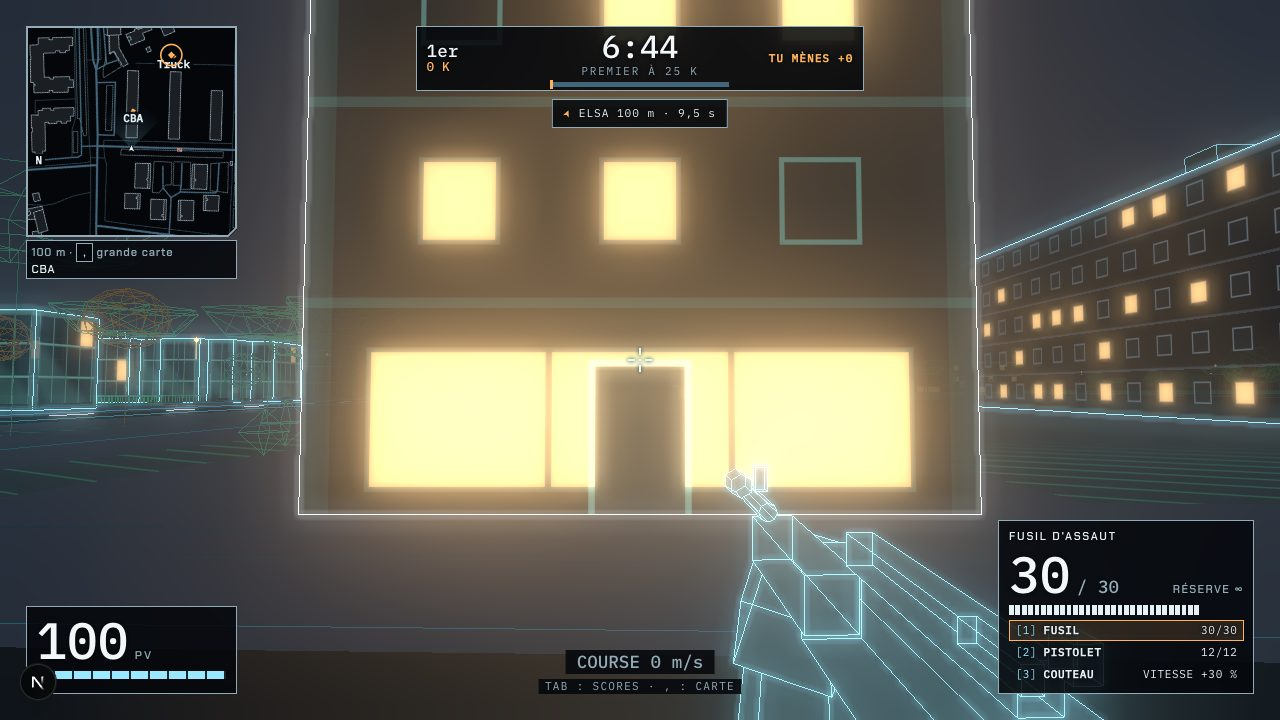
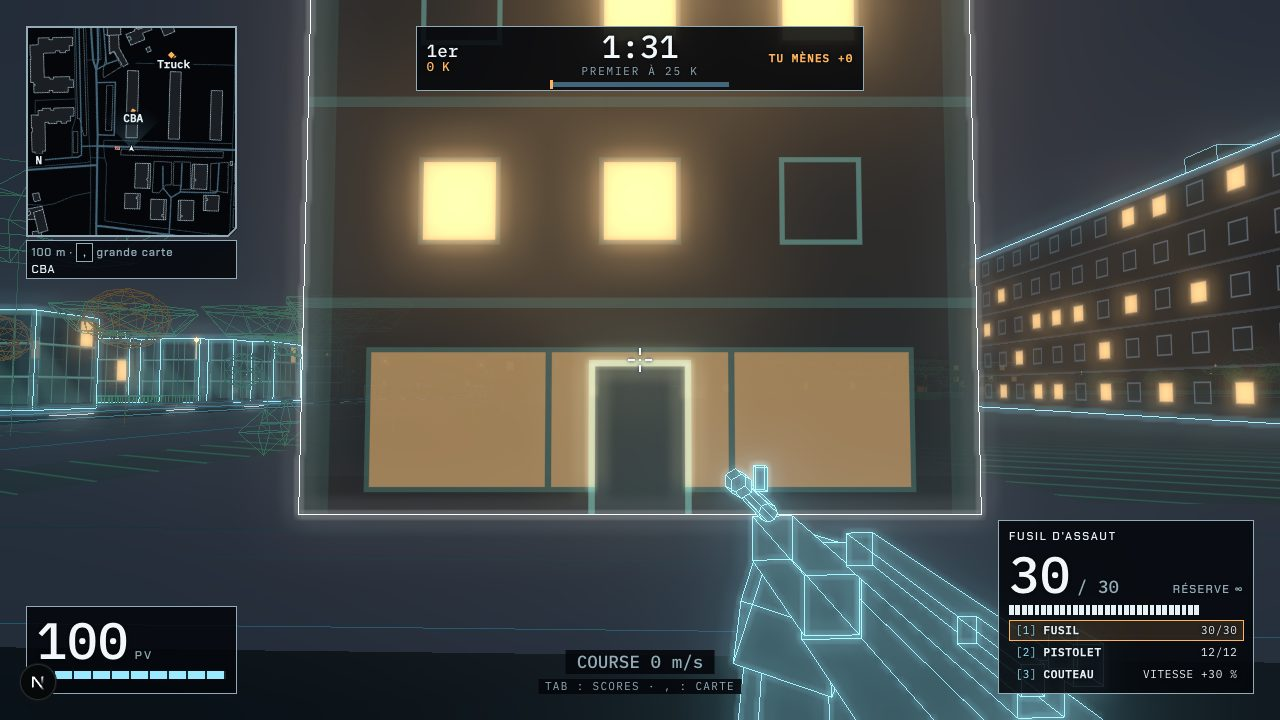
fix(palantir): revue de la DA v2 (vitrine par travées, vue aérienne sans détail en qualité basse, captures recalées)
- vitrine du rez-de-chaussée allumée par travée (hachage de colonne) et plus douce (LUM_VITRINE) : plus d'aplat jaune saturé par le bloom
- vue aérienne : detail faux en qualité « basse » (tactile, 4 cœurs ou moins)
- captures_da.mjs : déplacement par pas de 9 m attendu avant la photo, décompte BR de 30 s, attente de la phase de vol, option COEURS
- captures arène 05 à 10 « avant » et « après » refaites aux mêmes points, mesure de la vue 9 au même endroit (183 → 233 ms)
- spec et CLAUDE.md : coût réel de deriverDecor (90 à 185 ms), BR non vérifié à l'œil

diff --git a/lib/agroparc3d/decor.ts b/lib/agroparc3d/decor.ts
@@ -5,7 +5,7 @@
  */
 import * as THREE from "three";
 import { mergeGeometries } from "three/examples/jsm/utils/BufferGeometryUtils.js";
-import { SEUIL_ALLUMEES, FENETRE_H_M, FENETRE_L_M, PAS_COLONNE_M, MARGE_COLONNE_M, PORTE_H_M, PORTE_L_M, ENSEIGNE_H_M, ENSEIGNE_L_M, ENSEIGNE_Y_M, INDUSTRIEL_PORTE_H_M, INDUSTRIEL_PORTE_L_M, MUR_RIDEAU_CELLULE_M, VITRINE_BAS_M, VITRINE_HAUT_M, acrotere, codeFacade, murDePorte, mursDe, nbEtages, placementsSolaires, placementsToit } from "./facade";
+import { LUM_VITRINE, SEUIL_ALLUMEES, FENETRE_H_M, FENETRE_L_M, PAS_COLONNE_M, MARGE_COLONNE_M, PORTE_H_M, PORTE_L_M, ENSEIGNE_H_M, ENSEIGNE_L_M, ENSEIGNE_Y_M, INDUSTRIEL_PORTE_H_M, INDUSTRIEL_PORTE_L_M, MUR_RIDEAU_CELLULE_M, VITRINE_BAS_M, VITRINE_HAUT_M, acrotere, codeFacade, murDePorte, mursDe, nbEtages, placementsSolaires, placementsToit } from "./facade";
 import { deriverDecor, type DecorDerive, type OptionsDerivation } from "./decor-donnees";
 import { ajouterMobilier } from "./decor-mobilier";
 import { ajouterHaies, ajouterPelouses, ajouterVegetation } from "./decor-vegetation";
@@ -325,6 +325,7 @@ if (vMur.z > 0.5) {
   float fen = 0.0;
   float verre = 0.0;
   float allumee = 0.0;
+  float lumVerre = 1.0;
   float bardage = 0.0;
   float reflet = 0.0;
   float pasCol = nCol > 0.5 ? xu / nCol : 1.0;
@@ -347,7 +348,11 @@ if (vMur.z > 0.5) {
       float meneau = 1.0 - smoothstep(0.05 - aa, 0.05 + aa, min(fract(uu / pasCol), 1.0 - fract(uu / pasCol)) * pasCol);
       fen = 1.0 - smoothstep(-aa, aa, d);
       verre = (1.0 - smoothstep(-0.08 - aa, -0.08 + aa, d)) * (1.0 - meneau);
-      allumee = (restoF > 0.5 || hc < ${2 * SEUIL_ALLUMEES}u) ? 1.0 : 0.0;
+      // allumée par travée (hachage par colonne, comme les étages), jamais en bande continue : sinon le bloom sature un aplat jaune
+      // qui noie l'enseigne. Un peu plus de travées allumées chez un restaurant (50 % contre 40 %), mais pas toutes.
+      allumee = hc < (restoF > 0.5 ? ${2 * SEUIL_ALLUMEES}u : ${Math.round(1.6 * SEUIL_ALLUMEES)}u) ? 1.0 : 0.0;
+      // vitrine plus douce que les fenêtres d'étage (sous le seuil du bloom) : la lumière large du rez-de-chaussée ne doit pas écraser l'enseigne
+      lumVerre = ${LUM_VITRINE.toFixed(2)};
     }
   } else if (sty < 1.5) {
     // bandeau : fenêtre continue par étage, meneaux tous les 3 m, allège pleine
@@ -400,7 +405,7 @@ if (vMur.z > 0.5) {
   c += cy * 0.05 * bardage;
   c = mix(c, vec3(0.002, 0.008, 0.014), verre);
   c += cy * 0.05 * reflet * verre * (1.0 - allumee);
-  c = mix(c, chaud, verre * allumee);
+  c = mix(c, chaud * lumVerre, verre * allumee);
   c += cy * 0.2 * (fen - verre) * (1.0 - 0.6 * allumee);
   c = mix(c, vec3(0.006, 0.02, 0.028), interP);
   c += cy * 0.28 * (porte - interP);

diff --git a/lib/agroparc3d/decor.test.ts b/lib/agroparc3d/decor.test.ts
@@ -4,7 +4,7 @@ import { mergeGeometries } from "three/examples/jsm/utils/BufferGeometryUtils.js
 import { describe, expect, it } from "vitest";
 import { ajouterArbres, ajouterBatiments, buildingGroup, construireDecor, creerEtatDestruction, extrude, type OptionsDecor } from "./decor";
 import { deriverDecor } from "./decor-donnees";
-import { BIT_RESTO, CODE_STYLE, ENSEIGNE_L_M, INDUSTRIEL_PORTE_L_M, MUR_RIDEAU_CELLULE_M, VITRINE_BAS_M, VITRINE_HAUT_M, estLisse, mursDe, nbEtages } from "./facade";
+import { BIT_RESTO, CODE_STYLE, ENSEIGNE_L_M, LUM_VITRINE, SEUIL_ALLUMEES, INDUSTRIEL_PORTE_L_M, MUR_RIDEAU_CELLULE_M, VITRINE_BAS_M, VITRINE_HAUT_M, estLisse, mursDe, nbEtages } from "./facade";
 import type { Building, DecorOsm, SceneData } from "./types";
 
 const scene = JSON.parse(readFileSync("public/agroparc/scene.json", "utf8")) as SceneData;
@@ -185,6 +185,23 @@ describe("ajouterBatiments : détail vrai (arène)", () => {
     expect(sh.fragmentShader).toContain(`ddp - ${(ENSEIGNE_L_M / 2).toFixed(1)}`);
     for (const motif of ["sty < 0.5", "sty < 1.5", "sty < 2.5", "bardage", "enseigne"]) expect(sh.fragmentShader).toContain(motif);
     expect(sh.fragmentShader.match(/void main\(\) \{/g)).toHaveLength(1);
+  });
+
+  it("vitrine du rez-de-chaussée : allumée par travée (jamais en bande continue chez les restaurants) et plus douce qu'une fenêtre d'étage", () => {
+    const sh = compiler(facesDe(avec)[0].material as THREE.Material);
+    // plus de « restoF > 0.5 || » : un restaurant n'a pas toute sa vitrine allumée, le hachage de colonne décide aussi
+    expect(sh.fragmentShader).not.toMatch(/allumee = \(restoF > 0\.5 \|\|/);
+    expect(sh.fragmentShader).toContain(`allumee = hc < (restoF > 0.5 ? ${2 * SEUIL_ALLUMEES}u : ${Math.round(1.6 * SEUIL_ALLUMEES)}u)`);
+    expect(sh.fragmentShader).toContain(`lumVerre = ${LUM_VITRINE.toFixed(2)};`);
+    expect(sh.fragmentShader).toContain("chaud * lumVerre");
+    // la part de travées allumées d'un restaurant reste une minorité nette (< 60 %)
+    expect(2 * SEUIL_ALLUMEES / 65536).toBeLessThan(0.6);
+    expect(LUM_VITRINE).toBeLessThan(0.7);
+  });
+
+  it("vue aérienne : le détail de façade se retire en qualité basse (scene.ts)", () => {
+    const src = readFileSync("lib/agroparc3d/scene.ts", "utf8");
+    expect(src).toContain('detail: qualite !== "basse"');
   });
 
   it("attribut aStyle : constant par bâtiment, code de codeFacade, drapeau restaurant (+8) sur les restos", () => {

diff --git a/lib/agroparc3d/scene.ts b/lib/agroparc3d/scene.ts
@@ -121,7 +121,10 @@ export function createAgroparcScene(canvas: HTMLCanvasElement, labelsEl: HTMLEle
   controls.target.copy(repos.target);
 
   // ---------- décor (cf. decor.ts) ----------
-  construireDecor(scene, data, { fantomes: true, detail: true, qualite: qualiteParDefaut(), eviter: opts.cachettes?.map((c): Vec2 => [c.x, c.z]) });
+  // Vue aérienne : à cette distance aucune façade n'est lisible ; en qualité « basse » (tactile, 4 cœurs ou moins), on garde les murs
+  // en un quad sans nuanceur de façade (le coût fragment du détail ne se retire pas autrement).
+  const qualite = qualiteParDefaut();
+  construireDecor(scene, data, { fantomes: true, detail: qualite !== "basse", qualite, eviter: opts.cachettes?.map((c): Vec2 => [c.x, c.z]) });
 
   // ---------- POI markers + labels ----------
   const markers: Marker[] = [];

diff --git a/lib/agroparc3d/facade.ts b/lib/agroparc3d/facade.ts
@@ -83,6 +83,9 @@ export function estLisse(b: Pick<Building, "h" | "r" | "holes">): boolean {
 /** Seuil du nuanceur : `(hachage & 0xffff) < SEUIL_ALLUMEES`. */
 export const SEUIL_ALLUMEES = Math.round(PART_ALLUMEES * 65536);
 
+/** Luminosité de la vitrine allumée du rez-de-chaussée relativement à une fenêtre d'étage (1) : sous le seuil du bloom, pour laisser l'enseigne seule en accent. */
+export const LUM_VITRINE = 0.55;
+
 /**
  * La fenêtre (étage, colonne) du bâtiment `aBat` est-elle allumée ? Déterministe (≈ 25 %). `mur` distingue les murs d'un même
  * bâtiment (le nuanceur passe `floor(L × 8 + 0,5)` : l'arrondi évite qu'une longueur ronde, interpolée avec une erreur de 1e-7, tombe au hasard d'un côté ou de l'autre de l'entier), pour que les façades ne se répètent pas.

diff --git a/CLAUDE.md b/CLAUDE.md
@@ -102,7 +102,7 @@ Recettes maison (POC) : `agent/recette_agent.py` fait rédiger par le LLM (un ap
 - **Zombies v8 : crochets de développement** (`window.__arene`, côté client seulement) : `tuerZombie` (mort désarticulée jouée localement), `simuler(message)` (traite un message serveur, captures du Happy hour, du Micro-ondes, des portes), `essayerArme(arme, ameliore)` (arme en main, le serveur refuse ses tirs), `effetArme("arc" | "souffle", points?)`, `secret()`, `eclair(p, dansS)`, `ambianceTruck(on)` ; `etat().jeu.partie`, `.tServeur`, `.grenades`
 - **Mode Battle Royale** : spec `docs/superpowers/specs/2026-10-28-battle-royale-design.md` (statut final en tête, `VERSION_PROTOCOLE = 9`, le serveur accepte aussi les clients v8 (`VERSIONS_ACCEPTEES = [8, 9]`), prime sur les autres specs de l'arène là où elles divergent). Troisième mode du même serveur et de la même WebSocket (`ModeSalle = "arene" | "zombies" | "br"`, `partiesBr` dans `serveur-fps/src/index.ts` : salle permanente `br1` (`salleBr`) plus les parties créées à la demande, option `br` de `Salle` et JAMAIS `zombies`, monde MUTABLE `construireMondeBr` par salle, ni Elsa ni voitures ni événements ni avion des tigres ni bus C3 ni fumigène ni frappe ni régénération, 2 à 50 joueurs lobby compris, une partie par salle, tic sauté tant que la salle est vide, tactile indisponible, reconnexion en cours de partie impossible : la place est éliminée) ; `modeDeSalle` de `salons.ts` retrouve le mode d'un client par identité de sa salle. **Chat vocal, parties multiples, spectateur venu regarder** (2026-10-29, spec `docs/superpowers/specs/2026-10-29-br-voix-parties-design.md`, additif, sans changement de version) : proximité entre joueurs en vie (le client n'appelle que ses 8 voisins les plus proches à moins de 85 m, gardés jusqu'à 110 m : `ciblesVoixBr` de `voix.ts`, `cibler` de `voix-rtc.ts`, `ciblerVoixBr` de `jeu.ts`), canal à part entre spectateurs (éliminés et spectateurs venus regarder, plein volume) que les joueurs en vie n'entendent jamais (le serveur ne relaie qu'entre deux joueurs de même catégorie, `relaiVoixBr` ; présence `spec`), sauf le lien de killcam victime ↔ tueur ; rayon du chat vocal élargi pour tous les modes (`VOIX` : plein jusqu'à 8 m, muet au-delà de 75 m). Un arrivant pendant une partie en cours la regarde (`regarder` → `spectateur`, `Salle.regarderBr` : en jeu sans être en vie, `JoueurSalle.spectateur`, hors du snap ; client `lancerJeu(…, { spectateur: true })`, `devenirSpectateur`, `HudEtat.spectateurExterne`) ou crée sa partie (`mode{mode:"br", partie:"nouvelle"}` : `decisionMode` / `choisirPartieBr` de `salons.ts`, au plus `PDJ_FPS_BR_PARTIES` = 4 parties, une partie créée vide est refermée) ; `salons.parties` les liste, `LobbyBR` affiche « Regarder la partie », « Créer ma partie » et la liste « Parties » (`lignesPartiesBR`) ; crochets `window.__arene.regarderBr(id?)` / `creerPartieBr()`. Statistiques communes à toutes les parties (le service relit la persistance partagée). Partie : lobby (hôte = premier arrivé, 2 joueurs au moins, `lancerPartie` refusé si deux noms de base identiques) → décompte (fini dès que tous les admis ont `rejoindre`, 30 s au plus) → avion (saut libre ou éjection forcée à la fin du trajet) → chute libre puis parachute (SIMULÉES en temps réel par le serveur à partir des entrées `chute` à 30 Hz ; le client prédit avec le même `pasChute` et se téléporte à l'atterrissage si l'écart dépasse 0,5 m) → fouille (départ au couteau, aucune arme à feu ; 20 bâtiments creusés à toit ouvert, butin tiré par le seul serveur, ramassage manuel E, soins H / J, lâcher U) et zone qui se resserre en 6 paliers (cercles tirés au hasard dans le précédent, dégâts croissants, sans palier 0) → mort définitive avec killcam puis spectateur (vue du joueur suivi, cf. « Vue empruntée »), +50 PV au tueur vivant (plafonnés à 100), mêlée BR propre (couteau 34, épée 70) → victoire unique (clé de place : instant de mort, distance au centre, id) → bilan 30 s → lobby. **Modules PURS** de `lib/fps/` : `br-regles.ts` (`BR`, équipement de départ, `degatsMeleeBr`), `br-zone.ts` (plan et état de la zone, `etatDepuisZoneBr` côté client), `br-chute.ts` (avion `AVION_BR`, `CHUTE_BR`, `pasChute`, `pasDuTemps`), `br-carte.ts` (`donneesBr`, `construireMondeBr` qui réécrit les `bornes` sur les 142 bâtiments d'origine, `pointsButin`), `br-butin.ts` (tirage par pools, raretés, `appliquerRamassage`), `br-stats.ts` (`cleStats`, `appliquerPartie`, `PersistanceBr` injectée), `couleurs.ts` (`couleurJoueur` : les 16 premiers joueurs gardent `PALETTE`, les suivants ont une teinte en pas d'angle d'or). **Service serveur** : `match-br.ts` (`creerServiceBr`, machine d'états, tempête à accumulateur, bilan par instantanés, stats) composé de `match-br-vol.ts` (avion, saut, chute, invulnérabilité 5 s) et `match-br-butin.ts` (butin, inventaires, soins) via `ContexteSalle` ; `match.ts` l'appelle par ses hooks (`mourir`, `infliger`, `recevoirEtat` ignoré en vol, `snap` à 10 Hz sans les joueurs à bord ni les morts de plus de 5 s, une seule `presence` fusionnée par tic). **Client** : `jeu-br.ts` (PUR : `ControleurVol`, `ButinClient` sans aucune génération, `inviteRamassage`, `SuiviSpectateur`, `etatHudBr`), `rendu-br.ts` / `rendu-avion.ts` (avion et parachute en fil de fer, butin en pool indexé par id, mur de tempête à une seule géométrie ; calculs purs dans `rendu-br-modele.ts`), sons de vent, voile, zone et soins dans `sons.ts`, `jeu.ts` en mode `br` (interpolation 150 ms), UI `LobbyBR.tsx`, `hud/BarreBR` / `BlocZone` / `BlocInventaire` / `EcranSpectateur` / `FinDePartieBR` / `TableauStatsBr` / `useEtatBR`, tokens `--ag-*` seulement. **Statistiques** (TOP 1, parties, kills, meilleure place) : clé = pseudo normalisé, les pseudos `Agent*` ne comptent pas, une partie ne compte que si 2 joueurs au moins ont atterri et `PDJ_FPS_BR_VALIDE_MS` (60 s) sont écoulées depuis le départ de l'avion ; fichier JSON `PDJ_FPS_BR_STATS` (prod `/donnees/stats-br.json`) écrit en asynchrone, atomique et sérialisé (`serveur-fps/src/stats-br.ts`, synchrone seulement à l'arrêt), fichier illisible renommé `.corrompu-<horodatage>`, lecture par `statsBr` (messages) et `GET /stats-br`. **Persistance en prod** : volume Docker nommé `pdj-fps-donnees` monté sur `/donnees` (dossier à l'utilisateur `node`) : ne JAMAIS `docker compose down -v`, il emporterait les TOP 1. **Variables du serveur** : `PDJ_FPS_BR_STATS`, `PDJ_FPS_BR_PARTIES` (4), `PDJ_FPS_BR_MIN_JOUEURS` (1 pour jouer seul en essai), `_DECOMPTE_MS`, `_VOL_MS`, `_ALTITUDE`, `_ZONE_ECHELLE` (sans plancher, ex. 0,08), `_OBJETS`, `_FIN_MS`, `_VALIDE_MS`, et `PDJ_FPS_CONNEXIONS_IP` (24, 60 en prod) / `PDJ_FPS_CONNEXIONS_TOTAL` (160) ; `/sante` détaille `br`, `ticMaxMs`, `ticsLents` et `alerte` (tic > 8 ms, à surveiller après le déploiement : le conteneur est plafonné à 1 vCPU et 512 Mo). **Performance du site** : aucun code du BR n'entre dans le premier chargement de la page du menu, tout passe derrière `MyrtilleEasterEgg` → `next/dynamic` `Agroparc3D` → `import("@/lib/fps/jeu")`, et les stats ne sont demandées qu'à l'ouverture du lobby BR. **Tests** : `npx vitest run lib/fps` (dont `match.br.test.ts`, `match.br-hooks.test.ts`, `match.br.charge.test.ts` à lancer SEUL : snap ≤ 10,5 Ko à 50 joueurs, tic ≤ 2 ms en moyenne, et `stats-br-fichier.test.ts`) ; **bout en bout** `node scripts/fps/e2e_br.mjs` (mêmes conventions que les autres e2e, ports libres, TROIS Chromium Alice / Bob / Cora, serveur aux durées raccourcies : décompte, vol, altitude, échelle de zone, objets, validité, stats dans un fichier temporaire) : mode, lobby (seul l'hôte lance), avion, saut et atterrissage, ramassage, élimination au couteau, Bob éliminé qui crée sa partie puis revient regarder celle d'Alice (6b), tempête, victoire, TOP 1 relu par `GET /stats-br`, retour au lobby ; **protocole** `node scripts/fps/protocole_br_parties.mjs` (sans navigateur, quelques secondes : cinq clients WebSocket contre le vrai serveur, parties multiples, `regarder`, relais de la voix vivants / spectateurs). Pièges : la chute est simulée en temps réel par le serveur donc indépendante des images/s du rendu logiciel ; `teleporter` n'agit que côté client (sauts de 40 m) ; un `next dev` à froid recharge les pages ouvertes. Une micro-coupure de socket élimine le joueur pour toute la partie (documenté, hors périmètre v1)
 - **Bâtiments détaillés (arène, zombies, BR ET, depuis le rework de la DA, vue aérienne)** : `lib/agroparc3d/facade.ts` (PUR : étages, colonnes, mur de la porte, hachage des fenêtres allumées, placement des équipements de toit, panneaux solaires `placementsSolaires` (tirage à part : `placementsToit` ne bouge pas), acrotère `acrotere` (liseré à 0,5 m du bord ajouté aux arêtes), `styleFacade` / `codeFacade` / `teinteBatiment`) et `decor.ts` (`OptionsDecor.detail`, vrai par défaut dès que `destruction` est fourni, passé à vrai par `scene.ts`) : murs en un quad par arête (attributs `aBat`, `aMur`, `aHaut`, `aStyle`), nuanceur d'étages / bandeaux / fenêtres (≈ 25 % allumées, sous le seuil du bloom sauf elles) / porte / corniche, équipements de toit en une `InstancedMesh`, styles de `Building.type` (porte ambre pleine, barricade barrée, champ translucide sans écriture de profondeur) ; **façades v2** : quatre styles par bâtiment (`percee` ≈ 50 %, `bandeau` ≈ 25 % dès 2 étages, `mur_rideau` ≈ 15 % pour h ≥ 9 m et 150 m², `industriel` ≈ 10 % pour h < 7 m et 400 m² : bardage, fenêtres hautes, porte sectionnelle de 4 m), parts réparties parmi les styles admissibles, restos et base toujours `percee`, rez-de-chaussée vitré des façades percées à porte, enseigne néon ambre de 2,4 m au-dessus de la porte des restos (bit +8 de `aStyle`), trois teintes d'accent (cyan, bleu-vert, gris-bleu), clé de programme `batiment-effondrable-5` ; constantes recopiées entre `facade.ts` et le GLSL (testé) ; rendu seulement, aucune collision nouvelle
-- **Décor Palantir, DA v2 (issue #83, spec `docs/superpowers/specs/2026-10-29-da-palantir-design.md`, vue aérienne + arène + BR + zombies)** : le rendu partagé `construireDecor(scene, data, opts)` de `lib/agroparc3d/decor.ts` (options `fantomes`, `destruction`, `detail`, `ambiance` "complete" | "zombies", `qualite` "haute" | "basse" (`qualiteParDefaut` : tactile ou ≤ 4 cœurs), `exclure` (boîtes sans décor secondaire : la carte des zombies agrandie de 6 m, posée par `jeu.ts`), `eviter` (cachettes du tigre : rien à moins de 3 m)) dessine bâtiments, chaussée, réseau au sol, places de parking, marquages, grille, pelouses, haies, arbres et mobilier en **26 draw calls** (≤ 32 testé), statique (aucun travail par image), couches de sol sans écriture de profondeur ordonnées par `renderOrder` (pelouses −3, chaussée −2, places et haies −1, marquages 0, bâtiments 1 et 2). **Données** : `scene.json` n'est PAS régénéré (l'ordre de ses 142 bâtiments pilote zombies, BR et cachettes ; `cachettes.json` intact) ; `public/agroparc/decor.json` (additif, ≈ 43 Ko, type `DecorOsm`, généré À LA MAIN par `python3 scripts/agroparc/build_decor.py [--refresh|--offline]` : pelouses, haies, alignements, bois, lampadaires, passages piétons, stops, cédez, bancs, corbeilles, racks à vélos, portails d'OpenStreetMap, aucune essence d'arbre n'y est taguée) est chargé EN PARALLÈLE de `scene.json` par `Agroparc3D.tsx` (`fetchDecor` + `lireDecor`, `decor-osm.ts`) et posé dans `scene.data.decor` ; absent ou illisible, sans bruit : le décor se dérive de `scene.json` seul. **Modules PURS testés** (sans three, déterministes par `hasard.ts`, mémoïsés, `deriverDecor` de `decor-donnees.ts` les appelle, ≈ 70 ms à froid) : `geo.ts` (distances, `Grille`), `voirie.ts` (`DEMI_LARGEUR` M 3,5 / R 2,75 / S 1,9 m, ruban de chaussée, bords échantillonnés tous les 2 m et coupés dans les carrefours, trottoirs, axe pointillé 3 m / 6 m des voies M, passages piétons OSM + croisements des voies piétonnes (≤ 160, dédoublonnés à 6 m), lignes d'arrêt, dents de requin et flèches aux entrées du rond-point (`trouverRondPoint`), îlot central), `parkings.ts` (séparateurs de places 2,5 × 5 m, ≈ 1 100), `vegetation.ts` (`classerArbres` : platane / pin / cyprès / olivier / feuillu par RÈGLES, hypothèses de paysage provençal, positions de `scene.trees` jamais déplacées, l'arbre dans un bâtiment non dessiné ; haies en tronçons de 0,9 m ; pelouses triangulées (ear clipping) ; arbustes poisson-disc 3 m dont le massif de l'îlot), `mobilier.ts` (lampadaires OSM + un tous les 32 m + parkings, ≥ 18 m entre deux, jamais sur la chaussée ; panneaux stop, cédez, passage, arrêt de bus ; abris de bus ; bancs, corbeilles, vélos, portails ; vide en ambiance zombies). **Modules three** : `decor-sol.ts` (chaussée, marquages en un `Mesh` à couleurs par sommet, places ; bords, trottoirs et axes dans le `LineSegments` de `ajouterReseauSol`), `decor-vegetation.ts` (cinq silhouettes filaires en `InstancedMesh` à teinte par instance, un `LineSegments` de troncs, arbustes, haies (arêtes + faces), pelouses hachurées par nuanceur qui s'effacent avec la distance), `decor-mobilier.ts` (trois draw calls : mâts et arêtes, plaques et têtes, taches de lumière additives à 0,10, absentes en qualité basse et en zombies). **Aucune collision, aucun changement de protocole ni de serveur** (`decor-sans-collision.test.ts` : `construireMonde`, `construireMondeZombies`, `construireMondeBr` identiques avec et sans `decor`). **Captures** : `PREFIXE=avant|apres E2E_OUT=docs/medias/palantir-da [MESURE=1] [GROUPES=aerien,arene,zombies,br] [VUES=1,5,9] node scripts/palantir/captures_da.mjs` (treize vues de la spec, mesure de fluidité aux vues 1, 5 et 9) ; en dev, `window.__palantir.cadrer(x?, z?, distance?)` cadre la vue aérienne et `couches({chaussee|marquages|places|pelouses|haies|arbres|mobilier|taches|reseau: bool})` cache des couches du décor (mesures ; `MESURE_COUCHES=1` du script) ; mesures SwiftShader (arène et aérienne, × 0,8 à × 1,27 de l'ancien temps d'image) dans la section « Mesures et écarts » de la spec ; le nuanceur de façade saute son détail quand il est estompé à plus de 99,5 % (`smoothstep(0.18, 0.5, px)`)
+- **Décor Palantir, DA v2 (issue #83, spec `docs/superpowers/specs/2026-10-29-da-palantir-design.md`, vue aérienne + arène + BR + zombies)** : le rendu partagé `construireDecor(scene, data, opts)` de `lib/agroparc3d/decor.ts` (options `fantomes`, `destruction`, `detail`, `ambiance` "complete" | "zombies", `qualite` "haute" | "basse" (`qualiteParDefaut` : tactile ou ≤ 4 cœurs), `exclure` (boîtes sans décor secondaire : la carte des zombies agrandie de 6 m, posée par `jeu.ts`), `eviter` (cachettes du tigre : rien à moins de 3 m)) dessine bâtiments, chaussée, réseau au sol, places de parking, marquages, grille, pelouses, haies, arbres et mobilier en **26 draw calls** (≤ 32 testé), statique (aucun travail par image), couches de sol sans écriture de profondeur ordonnées par `renderOrder` (pelouses −3, chaussée −2, places et haies −1, marquages 0, bâtiments 1 et 2). **Données** : `scene.json` n'est PAS régénéré (l'ordre de ses 142 bâtiments pilote zombies, BR et cachettes ; `cachettes.json` intact) ; `public/agroparc/decor.json` (additif, ≈ 43 Ko, type `DecorOsm`, généré À LA MAIN par `python3 scripts/agroparc/build_decor.py [--refresh|--offline]` : pelouses, haies, alignements, bois, lampadaires, passages piétons, stops, cédez, bancs, corbeilles, racks à vélos, portails d'OpenStreetMap, aucune essence d'arbre n'y est taguée) est chargé EN PARALLÈLE de `scene.json` par `Agroparc3D.tsx` (`fetchDecor` + `lireDecor`, `decor-osm.ts`) et posé dans `scene.data.decor` ; absent ou illisible, sans bruit : le décor se dérive de `scene.json` seul. **Modules PURS testés** (sans three, déterministes par `hasard.ts`, mémoïsés, `deriverDecor` de `decor-donnees.ts` les appelle, 90 à 185 ms à froid) : `geo.ts` (distances, `Grille`), `voirie.ts` (`DEMI_LARGEUR` M 3,5 / R 2,75 / S 1,9 m, ruban de chaussée, bords échantillonnés tous les 2 m et coupés dans les carrefours, trottoirs, axe pointillé 3 m / 6 m des voies M, passages piétons OSM + croisements des voies piétonnes (≤ 160, dédoublonnés à 6 m), lignes d'arrêt, dents de requin et flèches aux entrées du rond-point (`trouverRondPoint`), îlot central), `parkings.ts` (séparateurs de places 2,5 × 5 m, ≈ 1 100), `vegetation.ts` (`classerArbres` : platane / pin / cyprès / olivier / feuillu par RÈGLES, hypothèses de paysage provençal, positions de `scene.trees` jamais déplacées, l'arbre dans un bâtiment non dessiné ; haies en tronçons de 0,9 m ; pelouses triangulées (ear clipping) ; arbustes poisson-disc 3 m dont le massif de l'îlot), `mobilier.ts` (lampadaires OSM + un tous les 32 m + parkings, ≥ 18 m entre deux, jamais sur la chaussée ; panneaux stop, cédez, passage, arrêt de bus ; abris de bus ; bancs, corbeilles, vélos, portails ; vide en ambiance zombies). **Modules three** : `decor-sol.ts` (chaussée, marquages en un `Mesh` à couleurs par sommet, places ; bords, trottoirs et axes dans le `LineSegments` de `ajouterReseauSol`), `decor-vegetation.ts` (cinq silhouettes filaires en `InstancedMesh` à teinte par instance, un `LineSegments` de troncs, arbustes, haies (arêtes + faces), pelouses hachurées par nuanceur qui s'effacent avec la distance), `decor-mobilier.ts` (trois draw calls : mâts et arêtes, plaques et têtes, taches de lumière additives à 0,10, absentes en qualité basse et en zombies). **Aucune collision, aucun changement de protocole ni de serveur** (`decor-sans-collision.test.ts` : `construireMonde`, `construireMondeZombies`, `construireMondeBr` identiques avec et sans `decor`). **Captures** : `PREFIXE=avant|apres E2E_OUT=docs/medias/palantir-da [MESURE=1] [GROUPES=aerien,arene,zombies,br] [VUES=1,5,9] node scripts/palantir/captures_da.mjs` (treize vues de la spec, mesure de fluidité aux vues 1, 5 et 9) ; en dev, `window.__palantir.cadrer(x?, z?, distance?)` cadre la vue aérienne et `couches({chaussee|marquages|places|pelouses|haies|arbres|mobilier|taches|reseau: bool})` cache des couches du décor (mesures ; `MESURE_COUCHES=1` du script) ; mesures SwiftShader (arène et aérienne, × 0,8 à × 1,27 de l'ancien temps d'image) dans la section « Mesures et écarts » de la spec ; le nuanceur de façade saute son détail quand il est estompé à plus de 99,5 % (`smoothstep(0.18, 0.5, px)`)
 - **Chasse au tigre (vue Palantir)** : un tigre 3D (GLB du thème Tigre, `chargerModele` partagé, jamais `libererModele`) est caché dans la vue, grandeur réelle (quelques pixels depuis la caméra de départ), et rapporte de 100 à 500 points au clic. `lib/agroparc3d/cachettes.ts` (PUR, testé sur le vrai `scene.json`) : grille irrégulière de 6 m sur les bâtiments + 40 m, sans bâtiment à moins de 1,5 m, route à moins de 4 m ni eau, difficulté = 0,45 masquage (5 points du corps visés depuis `REST` de `scene.ts` et ses 7 rotations de 45°) + 0,20 arbres + 0,20 éloignement + 0,15 recoin, seuls les points à moins de 5 m d'un mur et masqués par un bâtiment depuis au moins 3 des 8 caméras (corps entier, 5 points sur 5, caché depuis chacune) sont admis (`estCache`, règle durcie le 2026-10-22, minimum abaissé de 500 à 300, mesures dans la spec), quart le plus facile écarté, 341 cachettes, points et paliers (facile, moyenne, difficile) par rang, tirage `tirerCachette` (15, 45 et 40 %, 80 m des 5 précédentes, générateur en paramètre). Calcul trop long au chargement (110 à 150 ms au premier appel) : précalculé HORS LIGNE dans `public/agroparc/cachettes.json` par `node scripts/agroparc/generer_cachettes.mjs` (à relancer si `scene.json` ou `REST` changent, un test vérifie qu'il se régénère à l'octet). `lib/agroparc3d/tigre.ts` (three) : clone teinté à 0,5 (`TEINTE`, l'orange se détache et le pelage blanc passe juste au-dessus du seuil du halo, commit `b3fcee5`, il était à 0,2 et restait introuvable), signature thermique `LUEUR` (halo orange de 14 m qui traverse les bâtiments, allumé le premier quart d'une période de 4 s, `battement` testé), avec ses propres copies de géométrie et de texture, libérées à la fermeture avec le squelette (sinon three garde le renderer, donc le contexte WebGL, par l'écouteur `dispose` des objets partagés), et `scene.ts` force la perte du contexte à la fermeture, pose tapie fixe calculée par le moteur `corps.ts` (`poseTapie`, reprise par l'arène), sphère de clic invisible de 2,5 m, clic compté sous 6 px de glissement, retour 1,5 s plus tard ailleurs. Score et nombre de tigres sous le titre, gardés par `MyrtilleEasterEgg` (ils survivent à la fermeture de la vue, pas au rechargement). En dev, crochet `window.__palantir` (cachette, debusquer, placer, viser, ecran)
 - **Classement de la chasse au tigre** : `app/components/ClassementTigre.tsx` (bouton « Enregistrer mon score » dès que le score dépasse 0, formulaire pseudo prérempli par `localStorage` `palantir-pseudo` avec champ caché anti-robots `website`, Échap dans le champ ferme le formulaire et non la vue, panneau des 10 meilleurs au style du panneau d'un restaurant, ouvert ou fermé gardé en `localStorage` `palantir-classement`). Après l'enregistrement : « Score enregistré, Ne place », score remis à 0, classement ouvert. En cas d'échec (réseau, base, limite de débit) : « Classement indisponible pour le moment », score conservé. Validation PURE et testée dans `lib/tigre-scores.ts` (pseudo de 1 à 20 caractères sans caractère de contrôle, tigres de 1 à 500, score multiple de 10 entre 100 et 500 points par tigre). Route `app/api/tigre-scores/route.ts` : GET top 10 (score décroissant puis date), POST `{pseudo, score, tigres, website}` qui rend le rang, honeypot (faux succès), 3 enregistrements par minute et par IP en mémoire. Le score est calculé par le navigateur (faux score cohérent possible, accepté car site privé)
 

diff --git a/docs/superpowers/specs/2026-10-29-da-palantir-design.md b/docs/superpowers/specs/2026-10-29-da-palantir-design.md
@@ -285,7 +285,9 @@ Chaque commit passe `vitest run lib/agroparc3d lib/fps` + `tsc --noEmit` ; `npm 
 Mesures prises sur la machine de développement, rendu logiciel SwiftShader, 1280 × 720, `scripts/palantir/captures_da.mjs` (images `avant-*` / `apres-*` et `avant-fluidite.json` / `apres-fluidite.json` dans `docs/medias/palantir-da/`).
 
 - **Draw calls du décor** (`decor.test.ts`) : 26 dans l'arène (≤ 32), façades v2 sans draw call de plus. **Triangles** : 24 065 → 73 189 (+49 000, budget 120 000). `decor.json` : 43 Ko.
-- **Calcul** : `deriverDecor` ≈ 70 à 80 ms à froid (voirie 30, places 10, arbres 6, haies 4, pelouses 8, arbustes 5, mobilier 4, contexte 7) en test isolé, jusqu'à 170 ms sous la charge d'une suite de tests ; plafond de test 400 ms. Un peu au-dessus de la cible de 60 ms.
-- **Fluidité** (médiane / p95 de 60 images après 30 images de chauffe ; la mesure des premières images, non chauffées, était trompeuse) : vue 1 aérienne 183 → 233 ms (× 1,27, un cran de 16,7 ms au-dessus du budget de × 1,25), vue 5 arène au rond-point 283 → 217 ms, vue 9 arène devant CBA 183 → 200 ms (× 1,09). Pour tenir ces chiffres, le nuanceur de façade saute tout le calcul de détail quand le détail est estompé à plus de 99,5 % et le détail s'estompe plus tôt (`smoothstep(0.18, 0.5, px)` au lieu de `(0.28, 0.85)`, soit à partir de 0,5 m par pixel, ≈ 270 m en arène) : les fenêtres lointaines sont donc un peu plus lisses qu'avant. Taches de lumière et pelouses n'ont pas eu à être retirées.
+- **Calcul** : `deriverDecor` mesuré à froid à **89 à 185 ms** sur trois lancements isolés (la première version de cette spec annonçait ≈ 70 ms, chiffre d'un test chaud), jusqu'à 170 ms et plus sous la charge d'une suite de tests ; plafond de test 400 ms. Au-dessus de la cible de 60 ms : le calcul bloque le thread principal avant la première image et reste à optimiser (mémoïsation déjà faite ; piste : le précalculer hors ligne comme `cachettes.json`).
+- **Fluidité** (médiane / p95 de 60 images après 30 images de chauffe ; la mesure des premières images, non chauffées, était trompeuse) : vue 1 aérienne 183 → 233 ms (× 1,27, un cran de 16,7 ms au-dessus du budget de × 1,25), vue 5 arène au rond-point 283 → 217 ms, vue 9 arène devant CBA 183 → 233 ms (× 1,27, refaite le 30/10 « avant » et « après » au MÊME point, (−196,2 ; −24,7), la téléportation se faisant maintenant par pas de 9 m et attendue avant la photo : la première mesure, 183 → 200 ms, comparait deux endroits différents). Ces mesures sont à ± un cran de 16,7 ms et dépendent de la charge de la machine (charge moyenne de 60 et plus pendant les dernières séries : les vues 5 et 10 n'ont pas pu être remesurées proprement). Pour tenir ces chiffres, le nuanceur de façade saute tout le calcul de détail quand le détail est estompé à plus de 99,5 % et le détail s'estompe plus tôt (`smoothstep(0.18, 0.5, px)` au lieu de `(0.28, 0.85)`, soit à partir de 0,5 m par pixel, ≈ 270 m en arène) : les fenêtres lointaines sont donc un peu plus lisses qu'avant. Taches de lumière et pelouses n'ont pas eu à être retirées. **Qualité basse** : la vue aérienne passe `detail: false` (murs en un quad, sans nuanceur de façade) quand `qualiteParDefaut()` vaut « basse » (tactile ou 4 cœurs ou moins), aucune façade n'étant lisible à cette distance ; le gain n'a pas pu être mesuré (la série avec `COEURS=4` n'a pas abouti, la machine étant saturée).
 - **Écarts de détail** : l'enseigne néon des restaurants mesure 2,4 m × 0,28 m (et non 60 % de la largeur de la porte, soit 0,96 m, trop petit pour se lire) ; les bords du rond-point viennent des arcs M de `scene.json` (cordes de 22°), pas de cercles parfaits ; `placesParking` marque ≈ 1 130 séparateurs (parkings de plus de 150 m², allées S exclues) ; ≈ 97 passages piétons (34 OSM) et 268 lampadaires (≈ 42 OSM), 10 abris de bus (les `busStops` de `scene.json` comptent 10 points à plus de 6 m les uns des autres) ; l'acrotère est un liseré de lignes (pas un motif de nuanceur : la triangulation du toit n'a que des sommets de bord, une distance au bord ne s'interpole pas) ; les panneaux solaires vont par paires inclinées de 25° sur ≈ 60 % des toits de plus de 300 m² ; le mur rideau, le bandeau et l'industriel sont répartis parmi les styles admissibles (la part de façades percées dépasse donc 50 %).
+- **Vitrine** (revue du 30/10) : le rez-de-chaussée vitré n'est plus allumé en bande continue chez les restaurants : hachage par travée (50 % chez un restaurant, 40 % ailleurs) et luminosité `LUM_VITRINE` = 0,55 d'une fenêtre d'étage, sous le seuil du bloom (capture 09 refaite : l'aplat jaune saturé a disparu).
+- **Battle Royale (vue 12) non vérifié à l'œil** : les captures de la vue 12 montrent le lobby du BR (« Départ annulé : pas assez de joueurs »), pas l'avion. Cause probable : décompte de 3 s trop court pour un client en rendu logiciel ; `captures_da.mjs` utilise maintenant un décompte de 30 s (fini dès que le joueur a rejoint) et attend la phase de vol, mais cette correction n'a pas pu être validée (machine saturée). Le décor du BR (avion, parachute, bâtiments à toit ouvert) reste à regarder, ainsi que `e2e_br`.
 - **Non vérifié à l'œil** : l'enseigne néon d'un restaurant vue de face (la porte du Bistrot Trèfle est masquée par un petit bâtiment à 6 m ; la vue 8 montre le côté et la vitrine allumée) ; les trois e2e (`e2e_arene_v2`, `e2e_zombies`, `e2e_br`) n'ont pas été relancés (voir le risque « rendu logiciel » plus haut).
